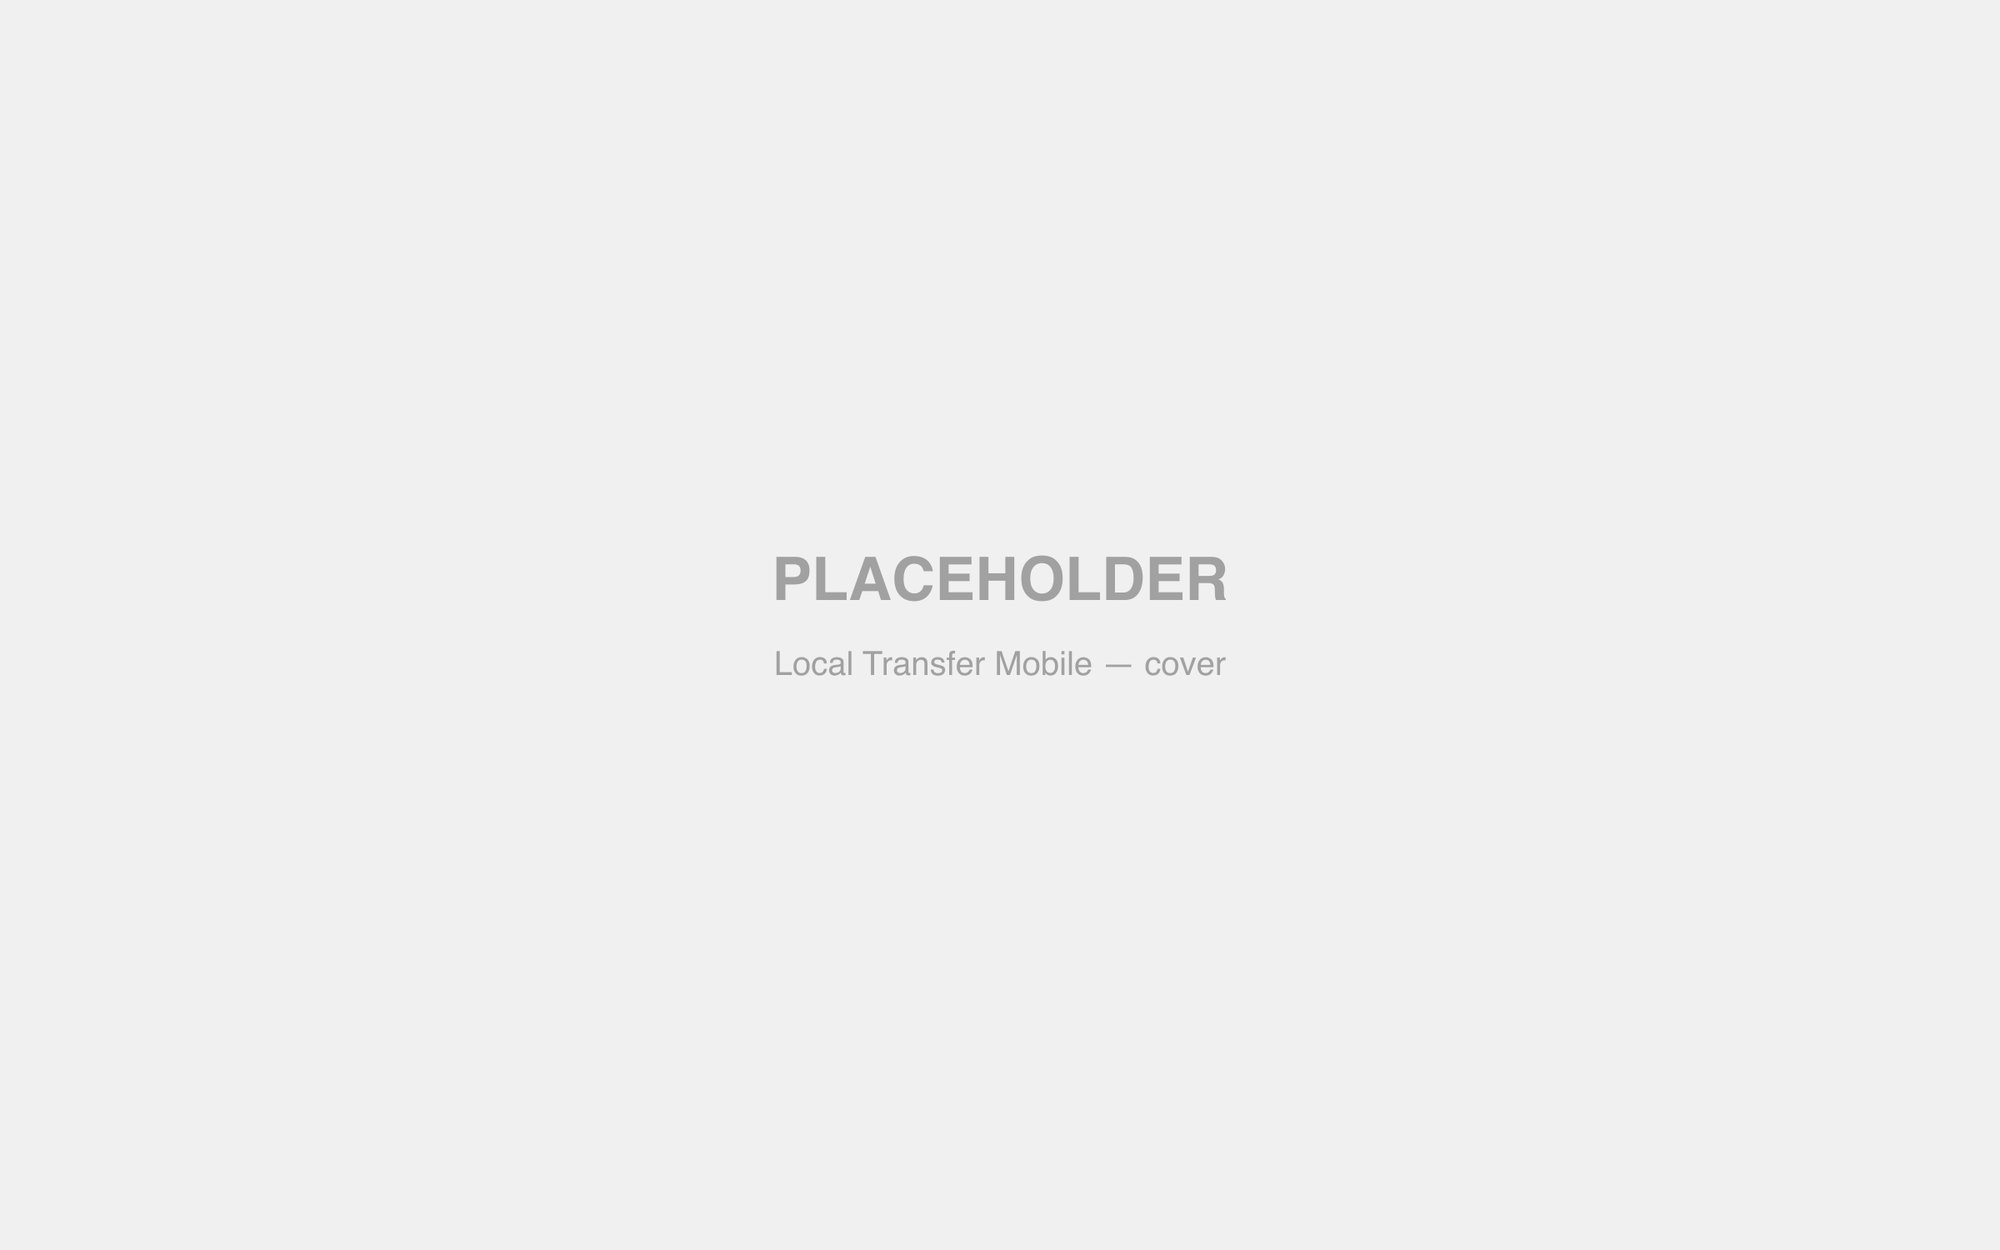
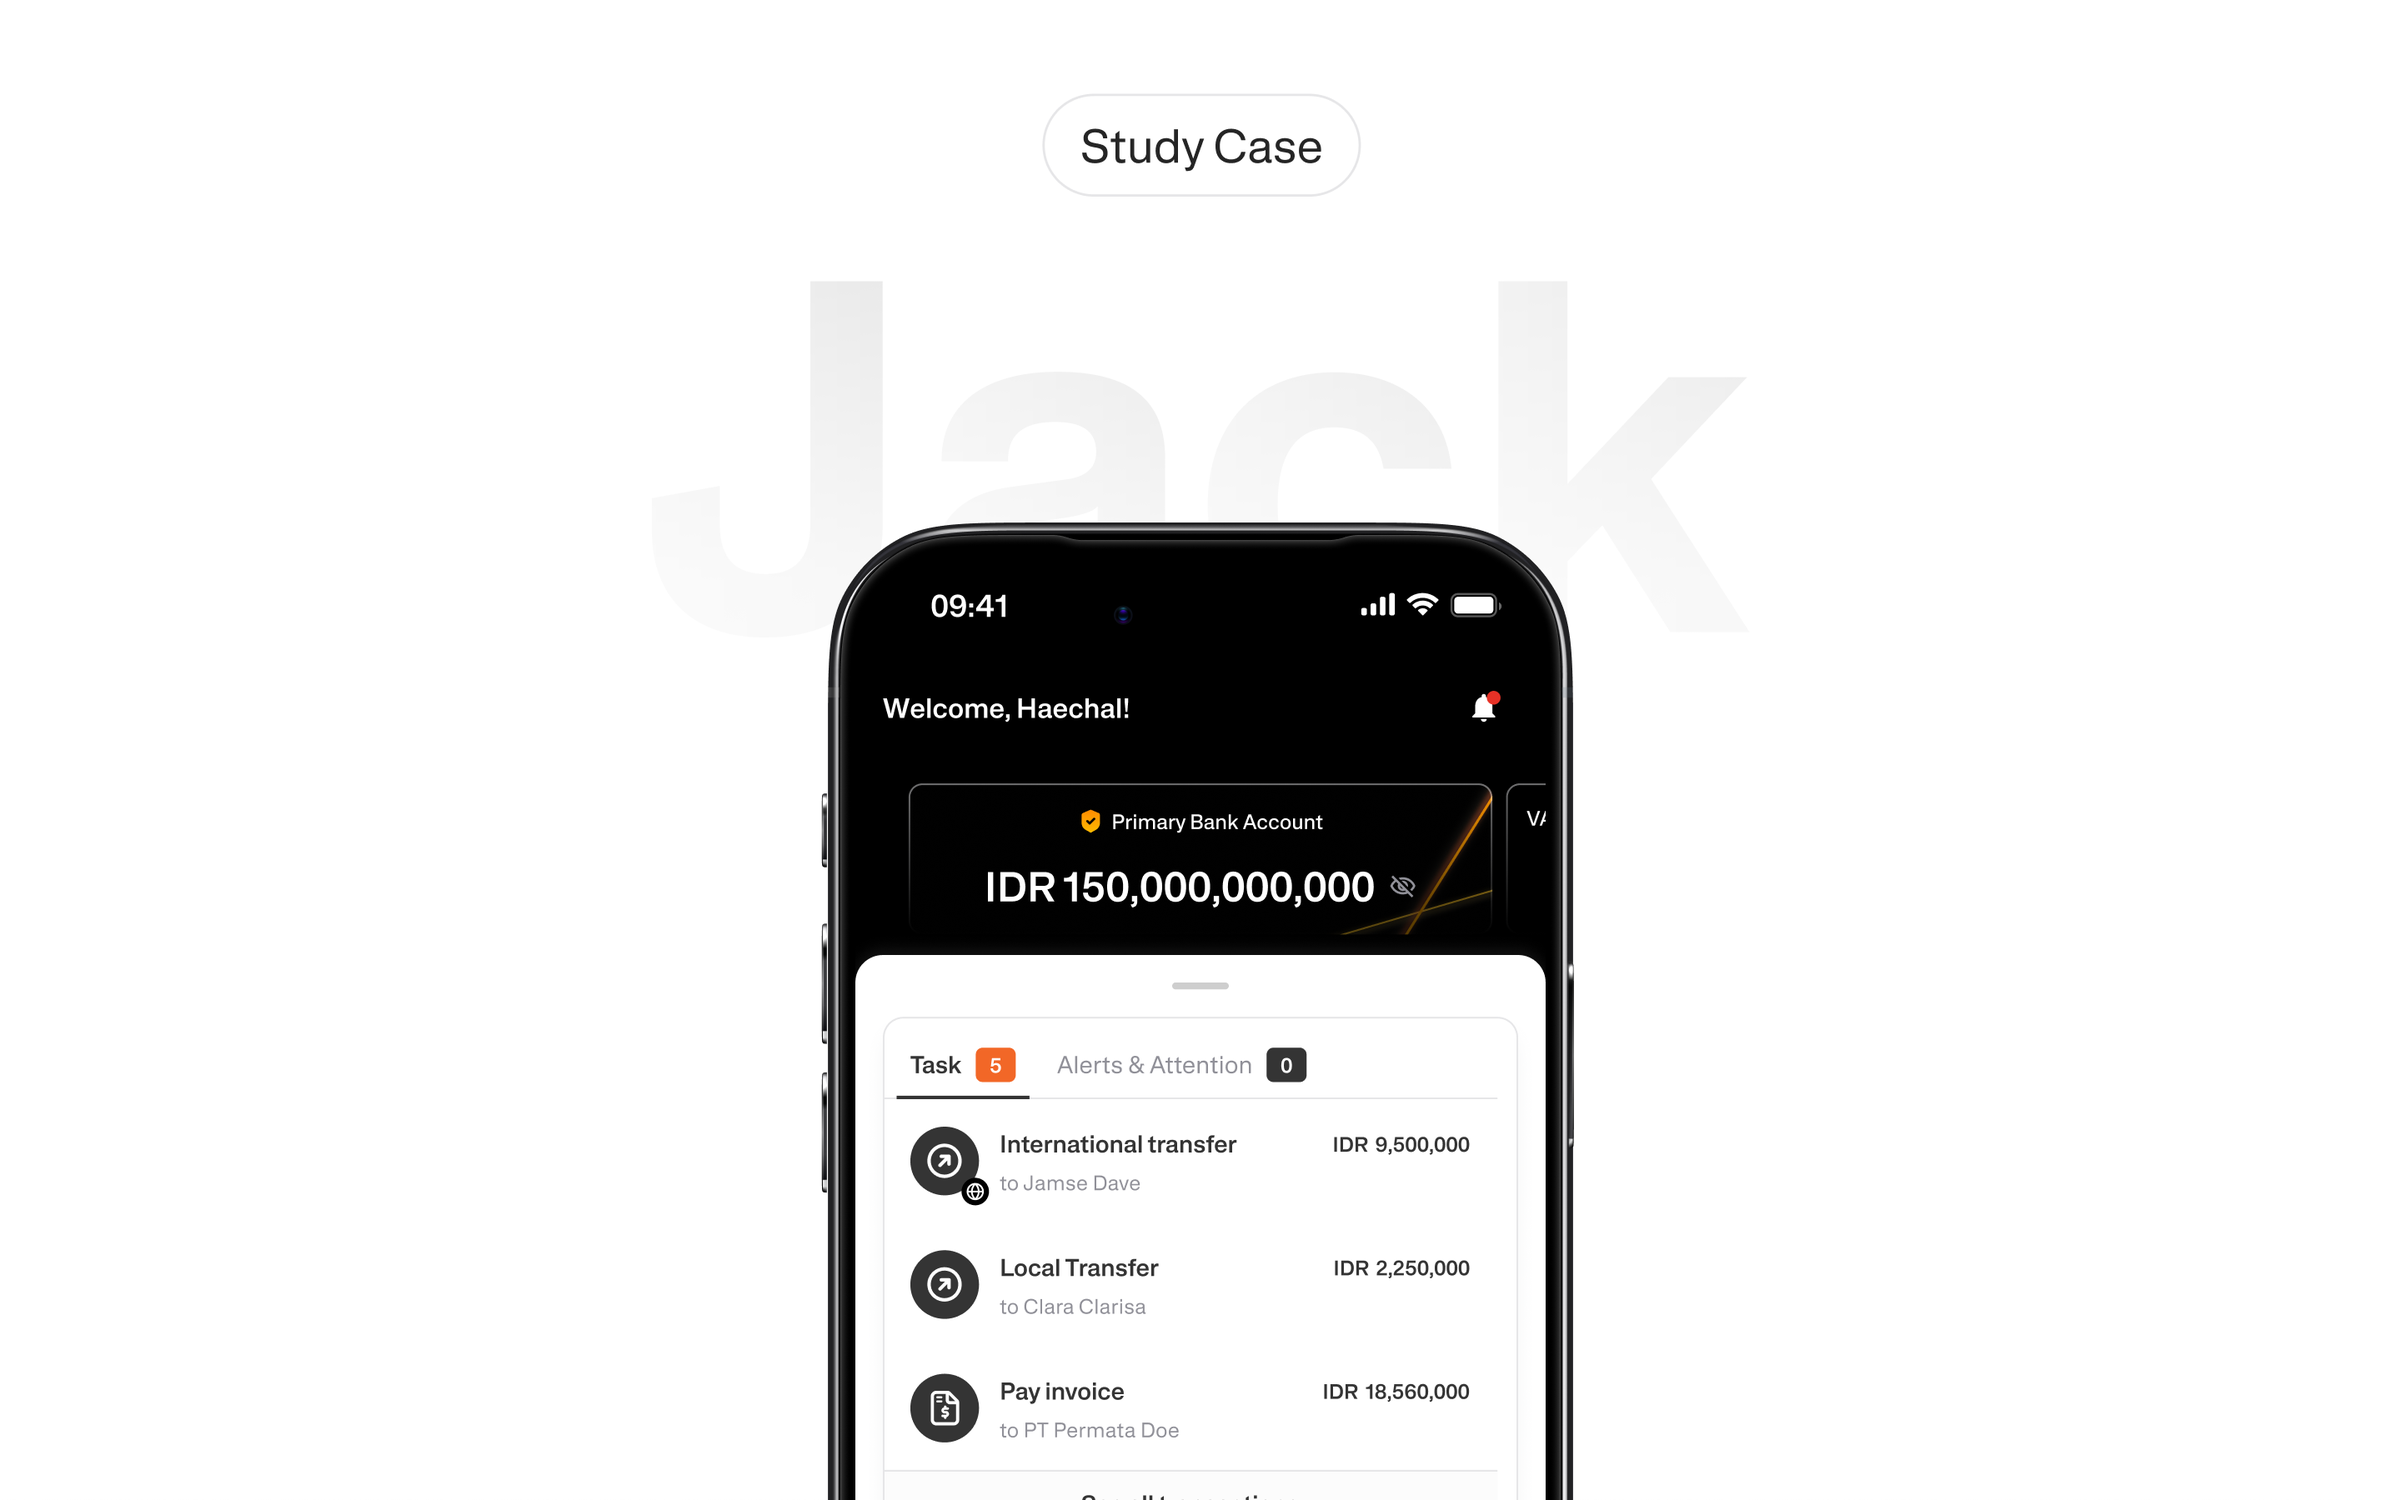
feat(case-study): new covers, clickable covers and Local Transfer Mobile first
- Replace the three case study covers with the new 2880×1800 designs
  (Local Transfer Mobile's placeholder included; alt text updated).
- Study Case and Next Project covers link to their study too; the link is
  out of the tab order and hidden from screen readers (View Details stays
  the accessible link), and hovering the cover lights the button.
- Reorder: Local Transfer Mobile, Quick Transfer, Voucher & Points Banner
  (order field and file prefixes); Next Project follows the new loop.

Changed region(s): [[0.3438, 0.3373, 0.6562, 1.0], [0.4375, 0.092, 0.5625, 0.1227], [0.5625, 0.736, 0.5938, 0.7667]]

diff --git a/tests/home-structure-en.test.ts b/tests/home-structure-en.test.ts
@@ -115,7 +115,16 @@ describe('home page structure', () => {
     it('lists the featured case studies as a plain list linking to each study', () => {
       const section = html.match(/<section[^>]*id="work"[\s\S]*?<\/section>/)?.[0] ?? ''
       const links = [...section.matchAll(/<a[^>]*href="(\/work\/[^"]+)"/g)].map(m => m[1])
-      expect(links).toEqual(['/work/quick-transfer/', '/work/voucher-points-banner/', '/work/local-transfer-mobile/'])
+      expect([...new Set(links)]).toEqual(['/work/local-transfer-mobile/', '/work/quick-transfer/', '/work/voucher-points-banner/'])
+      // Each cover links to its study too (Ficho), as a mouse/touch shortcut only:
+      // out of the tab order and hidden from screen readers, so the View Details
+      // pill stays the one accessible link per study.
+      const covers = section.match(/<a[^>]*\sdata-cover-link[\s>][^>]*>/g) ?? []
+      expect(covers).toHaveLength(3)
+      for (const c of covers) {
+        expect(c).toContain('tabindex="-1"')
+        expect(c).toContain('aria-hidden="true"')
+      }
       // The pill's accessible name says which study it opens.
       expect(section).toContain('<span class="sr-only">: Quick Transfer: Boosting Portal Payments</span>')
       // Ficho: industry/platform tags only, as in the design.
